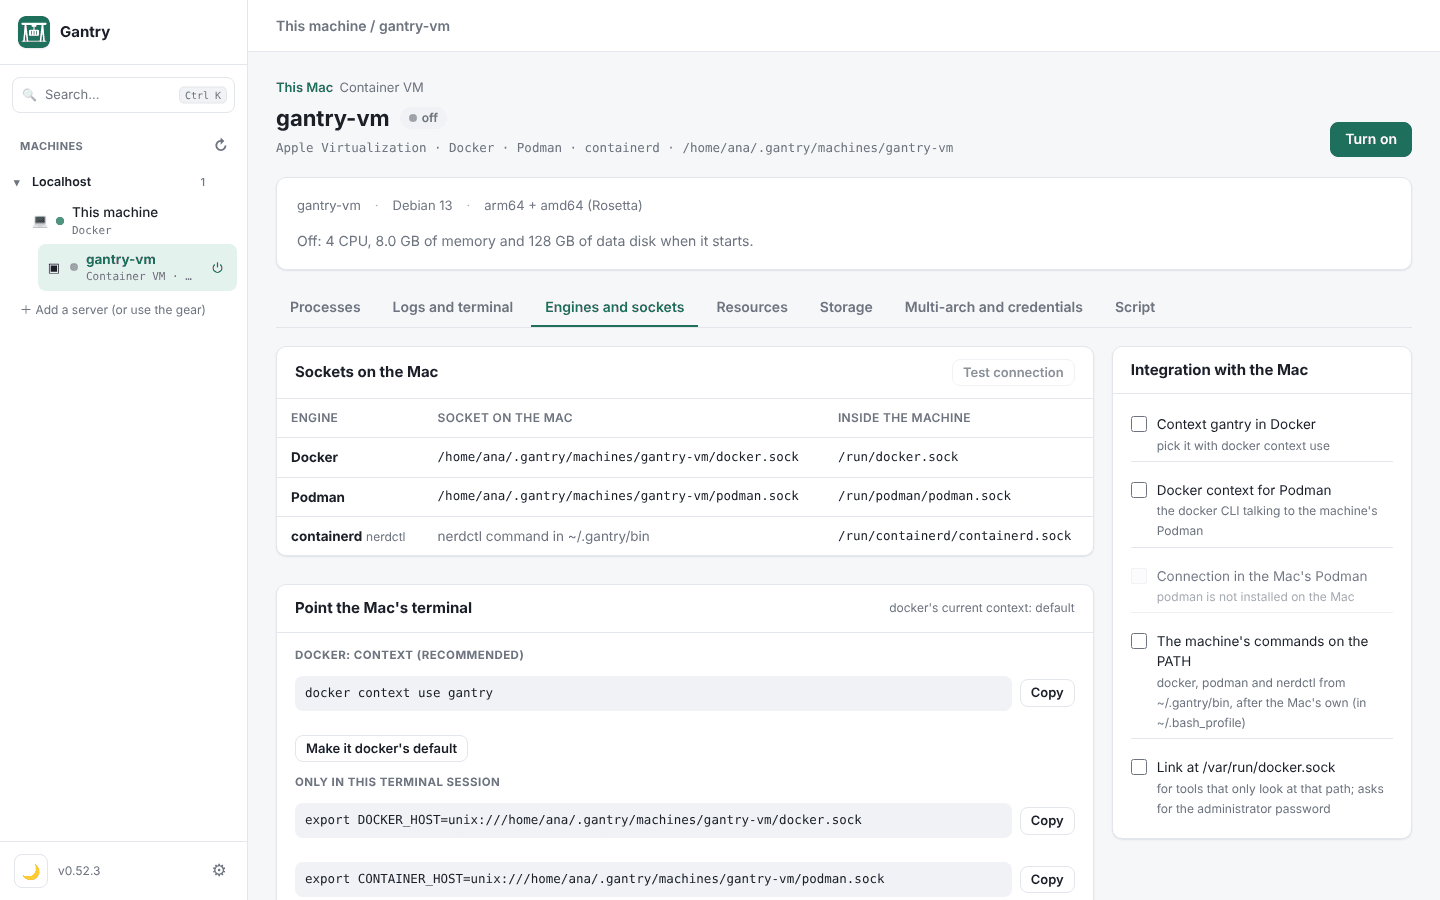
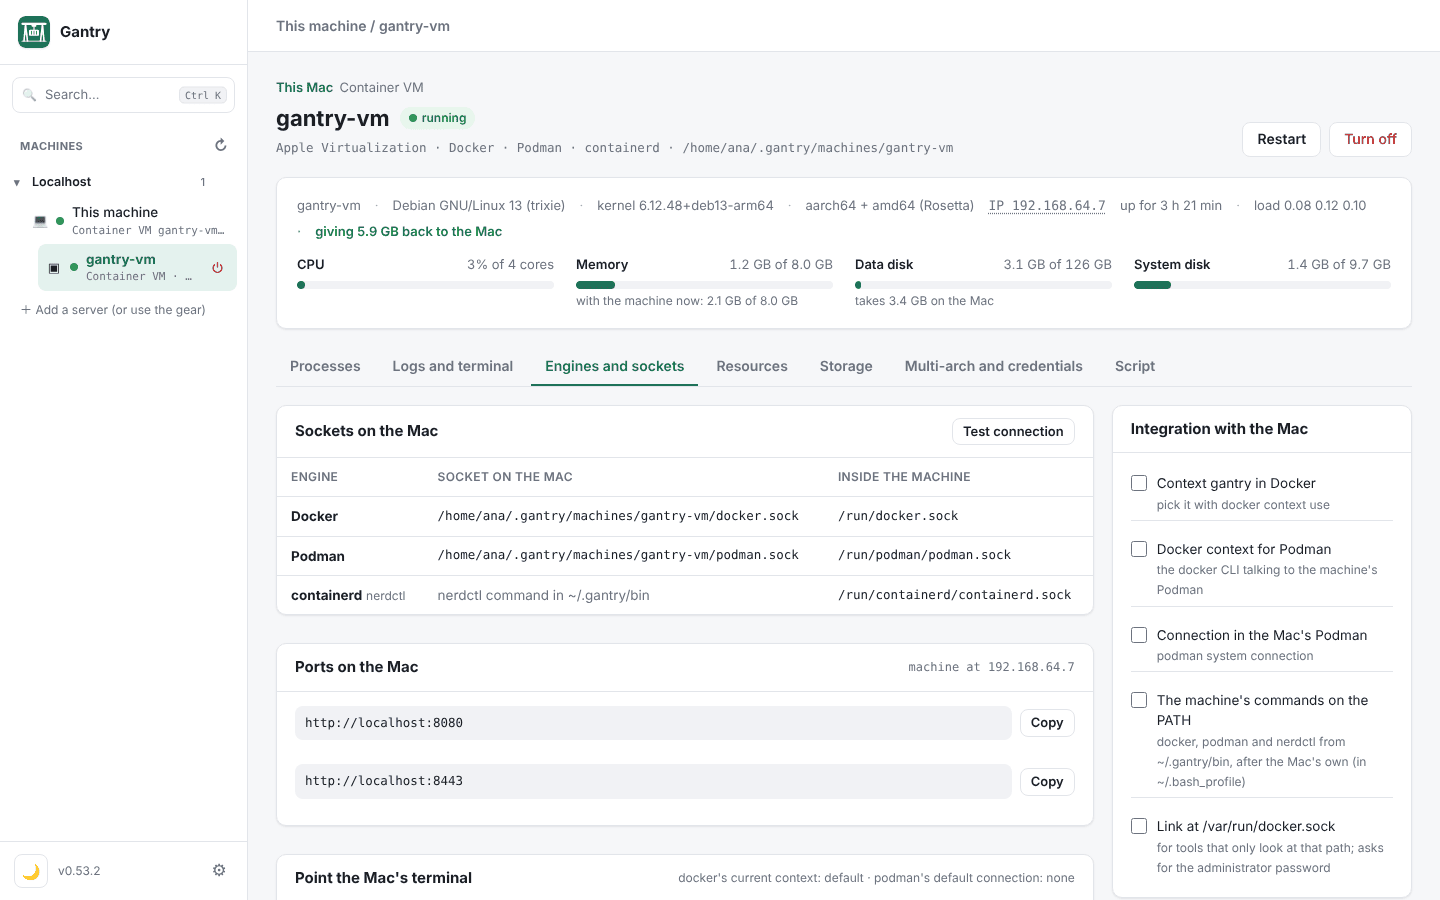
Tutorial: a Container VM com Podman, portas no Mac, IP e a aba VMs
A seção 2 ganha o Podman pelo terminal (podman system connection e
Usar como padrão do podman), a nova 2.3 sobre abrir os containers no
navegador do Mac (localhost e o IP da máquina, o quadro Portas no Mac) e
a Container VM na aba VMs de Esta máquina. A memória fala do que está
em uso de verdade e da parte devolvida ao Mac. Prints refeitos e novos,
em português e em inglês.

diff --git a/docs/do-zero-ao-lab.md b/docs/do-zero-ao-lab.md
@@ -139,21 +139,29 @@ O que ela traz:
 
 4. **Criar e ligar:** o Gantry baixa a imagem do sistema (e confere a soma), cria os discos, liga a máquina e mostra o provisionamento linha a linha. Na primeira vez leva alguns minutos, porque instala os engines.
 
-Quando termina, a máquina aparece na barra lateral, embaixo de **Esta máquina**, com o botão de ligar e desligar ao lado.
+Quando termina, a máquina aparece na barra lateral, embaixo de **Esta máquina**, com o botão de ligar e desligar ao lado. Ela também aparece na aba **VMs** de **Esta máquina**, em **Container VMs**, com o estado, o sistema, os engines, o IP e os botões **Abrir**, **Terminal** e **Desligar**.
+
+![A Container VM na aba VMs de Esta máquina](images/pt/tut-cvm-inhost.png)
 
 ### 2.2 Usar pelo terminal do Mac
 
 A aba **Engines e sockets** da máquina mostra tudo o que você precisa para usar os engines fora do Gantry:
 
 - **Sockets no Mac:** o `docker.sock` e o `podman.sock` da máquina ficam em `~/.gantry/machines/gantry-vm/`. O containerd é usado pelo comando `nerdctl`, em `~/.gantry/bin`.
-- **Apontar o terminal do Mac:** `docker context use gantry` (o recomendado), ou as linhas `export DOCKER_HOST=…` e `export CONTAINER_HOST=…` para uma sessão só. **Usar como padrão do docker** faz a troca de contexto por você.
+- **Apontar o terminal do Mac:**
+  - **Docker:** `docker context use gantry` (o recomendado). **Usar como padrão do docker** faz a troca por você.
+  - **Podman:** `podman system connection add --default gantry unix://…/podman.sock`, com o caminho do socket da sua máquina (o Gantry mostra o comando pronto para copiar). Se a conexão `gantry` já existir, o comando vira `podman system connection default gantry`. **Usar como padrão do podman** faz os dois passos por você.
+  - **Só numa sessão do terminal:** as linhas `export DOCKER_HOST=…` e `export CONTAINER_HOST=…`.
 - **Integração com o Mac:** cada opção é uma caixa que você liga ou desliga:
   - o contexto `gantry` no Docker;
   - um contexto do Docker que fala com o Podman da máquina;
+  - **Conexão no Podman do Mac**, a conexão `gantry` do `podman system connection`;
   - **Comandos da máquina no PATH**, que põe `docker`, `podman` e `nerdctl` de `~/.gantry/bin` no seu terminal, depois dos que o Mac já tiver;
   - **Link em /var/run/docker.sock**, para ferramentas que só procuram esse caminho (pede a senha de administrador).
 
 ![A Container VM: engines e sockets](images/pt/tut-cvm-engines.png)
+
+![Apontar o terminal do Mac: Docker, Podman e nerdctl](images/pt/tut-cvm-podman.png)
 
 Para testar, num terminal do Mac:
 
@@ -164,16 +172,35 @@ podman run --rm docker.io/library/alpine echo "olá do podman"     # com Comando
 nerdctl run --rm docker.io/library/alpine echo "olá do nerdctl"   # idem
 ```
 
-Os projetos do Gantry (os casos abaixo) usam a máquina sozinhos: basta escolher o engine dela ao criar o projeto.
+Os projetos do Gantry (os casos abaixo) usam a máquina sozinhos: basta escolher o engine dela ao criar o projeto. No formulário de um container, cada engine da máquina aparece na lista com o nome dela ao lado.
 
-### 2.3 Ligar, desligar e ajustar
+### 2.3 Abrir os containers no navegador do Mac
+
+Uma porta publicada por um container da máquina (`-p 8080:80`, ou **Portas** no formulário do container) abre de dois jeitos no Mac:
+
+- **`http://localhost:8080`:** o Gantry abre a mesma porta no Mac e repassa para a máquina. Vale para o Docker, o Podman e o nerdctl. Uma porta publicada só em `127.0.0.1` dentro da máquina abre só no `localhost` do Mac.
+- **`http://IP-da-máquina:8080`:** a máquina tem um IP na rede do Mac, mostrado no topo da página dela (**IP 192.168.64.7**, por exemplo). Clique nele para copiar.
+
+O quadro **Portas no Mac**, na aba **Engines e sockets**, lista as portas abertas agora, com o endereço pronto para copiar. Se outro programa do Mac já usa uma porta, o quadro avisa, e o motivo fica no log da máquina.
+
+Para testar, com o `docker context use gantry` do passo anterior:
+
+```sh
+docker run -d --name web -p 8080:80 nginx:alpine
+curl -I http://localhost:8080        # HTTP/1.1 200 OK
+docker rm -f web
+```
+
+> Com o Docker e o Podman juntos na máquina, o Gantry deixa o encaminhamento de IP ligado desde o boot. Sem isso, o Docker fecharia a rede para os containers do Podman e do nerdctl, e as portas deles só responderiam dentro da máquina.
+
+### 2.4 Ligar, desligar e ajustar
 
 - **Ligar e desligar:** pelo botão ao lado da máquina, na barra lateral, ou por **Ligar** e **Desligar** na página dela. Ao suspender o Mac, a máquina pausa junto e volta ao acordar.
-- **Recursos:** CPUs e **Memória máxima** (valem no próximo boot), **Memória dinâmica** (ligada por padrão; vale na hora), **Desligar sem nenhum container rodando por** um tempo, e o disco de dados, que só aumenta. Com a máquina ligada, o painel mostra quanto está com ela agora e quanto foi devolvido ao Mac.
+- **Recursos:** CPUs e **Memória máxima** (valem no próximo boot), **Memória dinâmica** (ligada por padrão; vale na hora), **Desligar sem nenhum container rodando por** um tempo, e o disco de dados, que só aumenta. Com a máquina ligada, o topo da página mostra a memória em uso de verdade, quanto está com a máquina agora (**com a máquina agora**) e quanto foi devolvido ao Mac (**devolvendo … ao Mac**).
 
   ![A Container VM: recursos e memória dinâmica](images/pt/tut-cvm-resources.png)
 
-- **Processos:** o que roda na máquina agora, ao vivo, como no `htop`, separado por container.
+- **Processos:** o que roda na máquina agora, ao vivo, como no `htop`, separado por container. A barra de memória mostra em listras a parte que o balão devolveu ao Mac: o Linux continua contando essa parte, mas ela não está em uso.
 - **Logs e terminal:** os logs do sistema, dos engines e do provisionamento, e um terminal dentro da máquina.
 - **Armazenamento:** as pastas do Mac que a máquina enxerga, os snapshots do disco de dados (e voltar a um deles) e os volumes no Finder.
 - **Multi-arch e credenciais:** as plataformas que a máquina roda e constrói (`docker buildx build --platform linux/amd64,linux/arm64`) e as credenciais do Mac que ela usa.

diff --git a/docs/from-scratch.md b/docs/from-scratch.md
@@ -141,21 +141,29 @@ What it brings:
 
 4. **Create and start:** Gantry downloads the system image (and checks its sum), creates the disks, starts the machine and shows the provisioning line by line. The first time it takes a few minutes, because it installs the engines.
 
-When it finishes, the machine shows up in the sidebar, under **This machine**, with its power button next to it.
+When it finishes, the machine shows up in the sidebar, under **This machine**, with its power button next to it. It also shows in the **VMs** tab of **This machine**, under **Container VMs**, with its state, system, engines, IP and the **Open**, **Terminal** and **Turn off** buttons.
+
+![The Container VM in the VMs tab of This machine](images/en/tut-cvm-inhost.png)
 
 ### 2.2 Use it from the Mac's terminal
 
 The machine's **Engines and sockets** tab shows everything you need to use the engines outside Gantry:
 
 - **Sockets on the Mac:** the machine's `docker.sock` and `podman.sock` live in `~/.gantry/machines/gantry-vm/`. containerd is used through the `nerdctl` command, in `~/.gantry/bin`.
-- **Point the Mac's terminal:** `docker context use gantry` (recommended), or the `export DOCKER_HOST=…` and `export CONTAINER_HOST=…` lines for one session only. **Make it docker's default** switches the context for you.
+- **Point the Mac's terminal:**
+  - **Docker:** `docker context use gantry` (recommended). **Make it docker's default** switches it for you.
+  - **Podman:** `podman system connection add --default gantry unix://…/podman.sock`, with your machine's socket path (Gantry shows the command ready to copy). If the `gantry` connection already exists, the command becomes `podman system connection default gantry`. **Make it podman's default** does both steps for you.
+  - **For one terminal session only:** the `export DOCKER_HOST=…` and `export CONTAINER_HOST=…` lines.
 - **Integration with the Mac:** each option is a box you turn on or off:
   - the `gantry` context in Docker;
   - a Docker context that talks to the machine's Podman;
+  - **Connection in the Mac's Podman**, the `gantry` connection of `podman system connection`;
   - **The machine's commands on the PATH**, which puts `docker`, `podman` and `nerdctl` from `~/.gantry/bin` in your terminal, after the ones the Mac already has;
   - **Link at /var/run/docker.sock**, for tools that only look there (asks for the administrator password).
 
 ![The Container VM: engines and sockets](images/en/tut-cvm-engines.png)
+
+![Point the Mac's terminal: Docker, Podman and nerdctl](images/en/tut-cvm-podman.png)
 
 To test, in a Mac terminal:
 
@@ -166,16 +174,35 @@ podman run --rm docker.io/library/alpine echo "hello from podman"     # with the
 nerdctl run --rm docker.io/library/alpine echo "hello from nerdctl"   # same
 ```
 
-Gantry projects (the cases below) use the machine on their own: just pick its engine when creating the project.
+Gantry projects (the cases below) use the machine on their own: just pick its engine when creating the project. In a container's form, each engine of the machine shows in the list with its name next to it.
 
-### 2.3 Start, stop and adjust
+### 2.3 Open the containers in the Mac's browser
+
+A port published by a container of the machine (`-p 8080:80`, or **Ports** in the container form) opens in two ways on the Mac:
+
+- **`http://localhost:8080`:** Gantry opens the same port on the Mac and forwards it to the machine. It works for Docker, Podman and nerdctl. A port published only on `127.0.0.1` inside the machine opens only on the Mac's `localhost`.
+- **`http://machine-IP:8080`:** the machine has an IP on the Mac's network, shown at the top of its page (**IP 192.168.64.7**, for example). Click it to copy.
+
+The **Ports on the Mac** panel, in the **Engines and sockets** tab, lists the ports open now, with the address ready to copy. If another Mac program already uses a port, the panel warns about it, and the reason is in the machine's log.
+
+To test, with the `docker context use gantry` from the previous step:
+
+```sh
+docker run -d --name web -p 8080:80 nginx:alpine
+curl -I http://localhost:8080        # HTTP/1.1 200 OK
+docker rm -f web
+```
+
+> With Docker and Podman together in the machine, Gantry keeps IP forwarding on from boot. Without it, Docker would close the network to the Podman and nerdctl containers, and their ports would answer only inside the machine.
+
+### 2.4 Start, stop and adjust
 
 - **Start and stop:** with the button next to the machine in the sidebar, or **Turn on** and **Turn off** on its page. When the Mac sleeps, the machine pauses with it and comes back when it wakes.
-- **Resources:** CPUs and **Maximum memory** (they apply on the next boot), **Dynamic memory** (on by default; applies right away), **Turn off with no container running for** a while, and the data disk, which only grows. With the machine on, the panel shows how much it holds now and how much went back to the Mac.
+- **Resources:** CPUs and **Maximum memory** (they apply on the next boot), **Dynamic memory** (on by default; applies right away), **Turn off with no container running for** a while, and the data disk, which only grows. With the machine on, the top of the page shows the memory really in use, how much the machine holds now (**with the machine now**) and how much went back to the Mac (**giving … back to the Mac**).
 
   ![The Container VM: resources and dynamic memory](images/en/tut-cvm-resources.png)
 
-- **Processes:** what runs in the machine now, live, as in `htop`, grouped by container.
+- **Processes:** what runs in the machine now, live, as in `htop`, grouped by container. The memory bar shows striped the part the balloon gave back to the Mac: Linux still counts it, but it is not in use.
 - **Logs and terminal:** the logs of the system, the engines and the provisioning, and a terminal inside the machine.
 - **Storage:** the Mac folders the machine sees, the data disk snapshots (and going back to one) and the volumes in the Finder.
 - **Multi-arch and credentials:** the platforms the machine runs and builds (`docker buildx build --platform linux/amd64,linux/arm64`) and the Mac credentials it uses.
